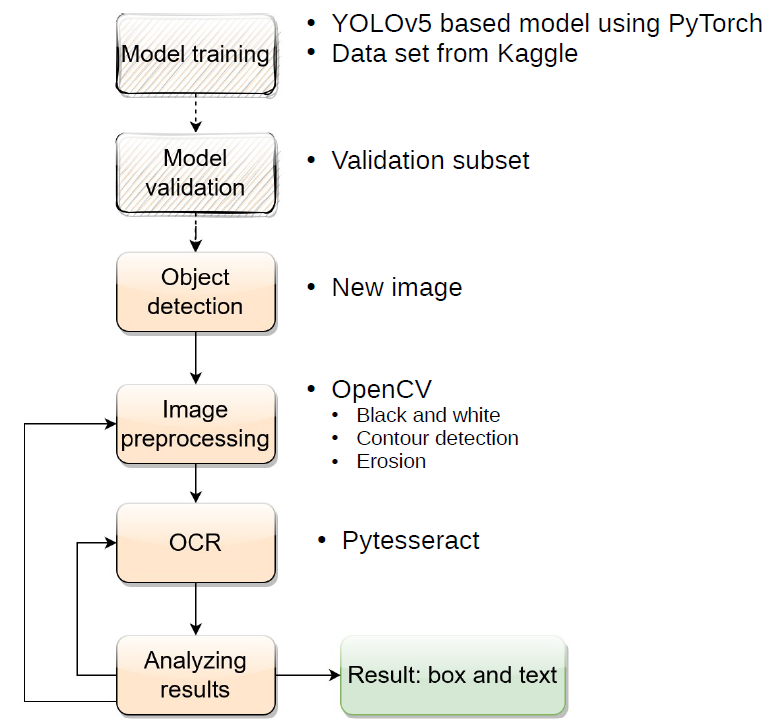
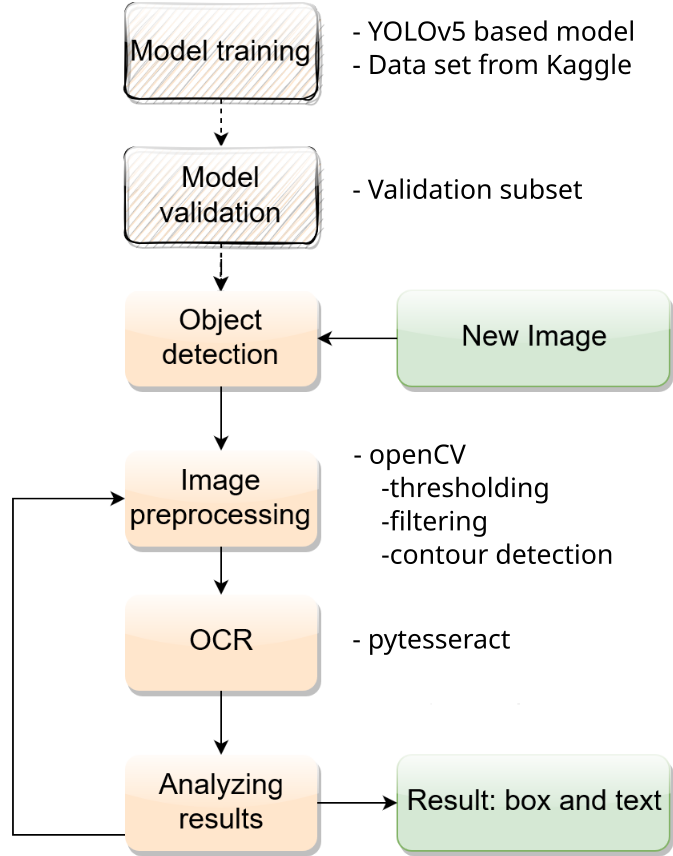
edit model description

Changed region(s): [[0.0, 0.0, 1.0, 0.9724], [0.0936, 0.6989, 1.0, 1.0], [0.312, 0.8508, 0.3432, 0.8812]]

diff --git a/main_streamlit.py b/main_streamlit.py
@@ -179,14 +179,16 @@ def imageInput(device, src):
         st.write('This model is the final project of the Data Science Boot Camp at the WBS coding school, Berlin. The source code can be found on GitHub [https://github.com/Dimarfin/License_plate_recognition](https://github.com/Dimarfin/License_plate_recognition)')
         st.markdown('''
                     ### Model implementation
-                    This model implements detection the car license plate detection and recognition of the text on it.
-                    It includes two main steps several steps depicted in the figure below:
+                    This model implements detection the car license plate and recognition of 
+                    the text on it. It includes several steps depicted in the figure below. 
+                    The first two (training and validation) were performed only once while
+                    the following steps are repeated each time a new image is supplied to the model.
                     ''')
         fig01 = Image.open('docs/fig01.png')
-        st.image(fig01, caption='Schematic representation of the model pipeline')
+        st.image(fig01, width = 400, caption='Schematic representation of the model pipeline')
         st.markdown('''
                     ### Object detection step
-                    The detection step is performed using [YOLOv5](https://github.com/ultralytics/yolov5) – a state of the art object detection system. It is based on a constitutional neuronal network and build using PyTorch library. YOLOv5 is supplied pertained on MS COCO dataset which speeds up the training step for a custom object. One of the review of the system can be found at the following [link](https://towardsdatascience.com/yolo-v5-is-here-b668ce2a4908). 
+                    The detection step is performed using [YOLOv5](https://github.com/ultralytics/yolov5) – a state of the art object detection system. It is based on a constitutional neuronal network and build using PyTorch library. YOLOv5 is supplied pertained on MS COCO dataset which speeds up the training step for a custom object type. One of the review of the YOLO system can be found at the following [link](https://towardsdatascience.com/yolo-v5-is-here-b668ce2a4908). 
                     While there are several sizes of the YOLOv5 in this work YOLOv5s was utilized. For detection of the car license plates it was trained on a [data set from Kaggle](https://www.kaggle.com/datasets/andrewmvd/car-plate-detection).  
                     The model reached outstanding performance after 20 epochs of training. Some of the performance metrics measured on the validation subset are presented in the figure below.
                     ''')
@@ -194,11 +196,21 @@ def imageInput(device, src):
         st.image(fig02, caption='Model performance') 
         st.markdown(''' 
                      ### Image processing step
-                     Optical character recognition can be improved if images of the detected licence plates are preprocessed to remove noise and unwanted feature which can be misrecognized as a character. This preprocessing step includes several operation such as converting image to a binary form, contour detection, erosion, dilation, etc. After that, prepared image is supplied to the OCR engine.
+                     After detection of the license plate the image is cropped around it. 
+                     Before sending this croped image to OCR the image preprocessing step 
+                     is applied. The image preprocessing is realized using [openCV library](https://opencv.org/) and
+                     includes several operation such as removing certain colors, thresholding, 
+                     filtering, contour detection and clearing unsuitable ones. There are several 
+                     oreprocessors realized withing this project. If OCR result achieved after
+                     one preprocessor doesn't match certain criteria, another preprocessor is used
+                     and the OCR step is repeated'
                      
                      ### Optical character recognition
-                     To recognized text on the license plate tesseract [Tesseract Open Source OCR Engine](https://github.com/tesseract-ocr/tesseract) and a python library [pytesseract](https://pypi.org/project/pytesseract/) was used. The result of OCR is automatically analysed and, if necessary, other image preprocessing parameters or other parameters of the OCR engine ware used
-                     ''')      
+                     To recognized text on the license plate [Tesseract Open Source OCR Engine](https://github.com/tesseract-ocr/tesseract) 
+                     and a python library [pytesseract](https://pypi.org/project/pytesseract/) was used. 
+                     The result of OCR is automatically analysed and, if necessary, another image 
+                     preprocessor or other parameters of the OCR engine are used
+                     ''')
 
 def main():
     # -- Sidebar
